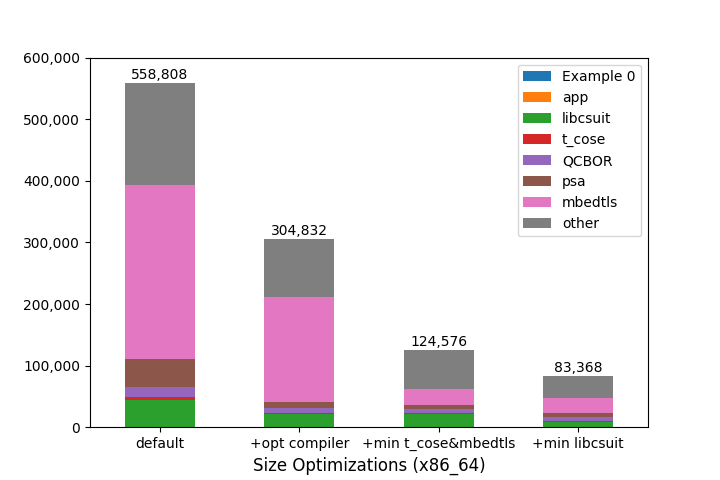
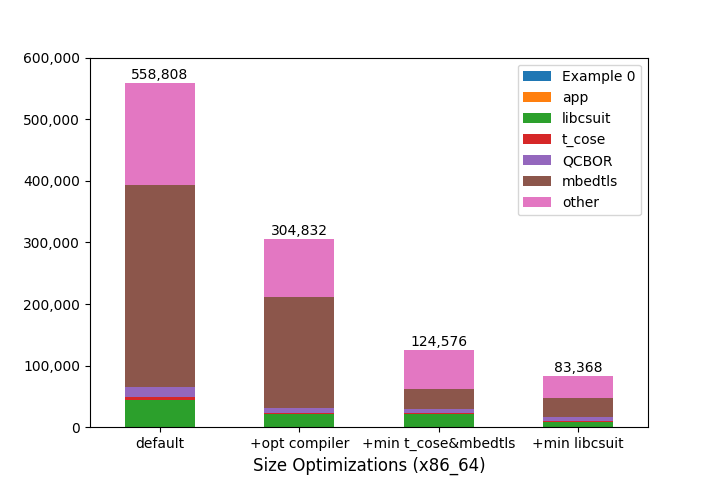
update: merge psa into mbedtls

diff --git a/misc/calc_table.py b/misc/calc_table.py
@@ -41,6 +41,9 @@ for key in tmp.keys():
 print(df)
 df.to_csv(f"{script_path}/table_size_{arch}.csv")
 
+df.loc["mbedtls"] += df.loc["psa"]
+df = df.drop("psa")
+
 ndf = df.rename(columns = {"+optimize compiler": "+opt compiler", "+minimize t_cose": "+min t_cose", "+minimize mbedtls": "+min mbedtls", "+minimize t_cose&mbedtls": "+min t_cose&mbedtls", "+minimize libcsuit": "+min libcsuit"})
 
 tmp = [ndf[column]["TOTAL"] for column in ndf.columns.values]
